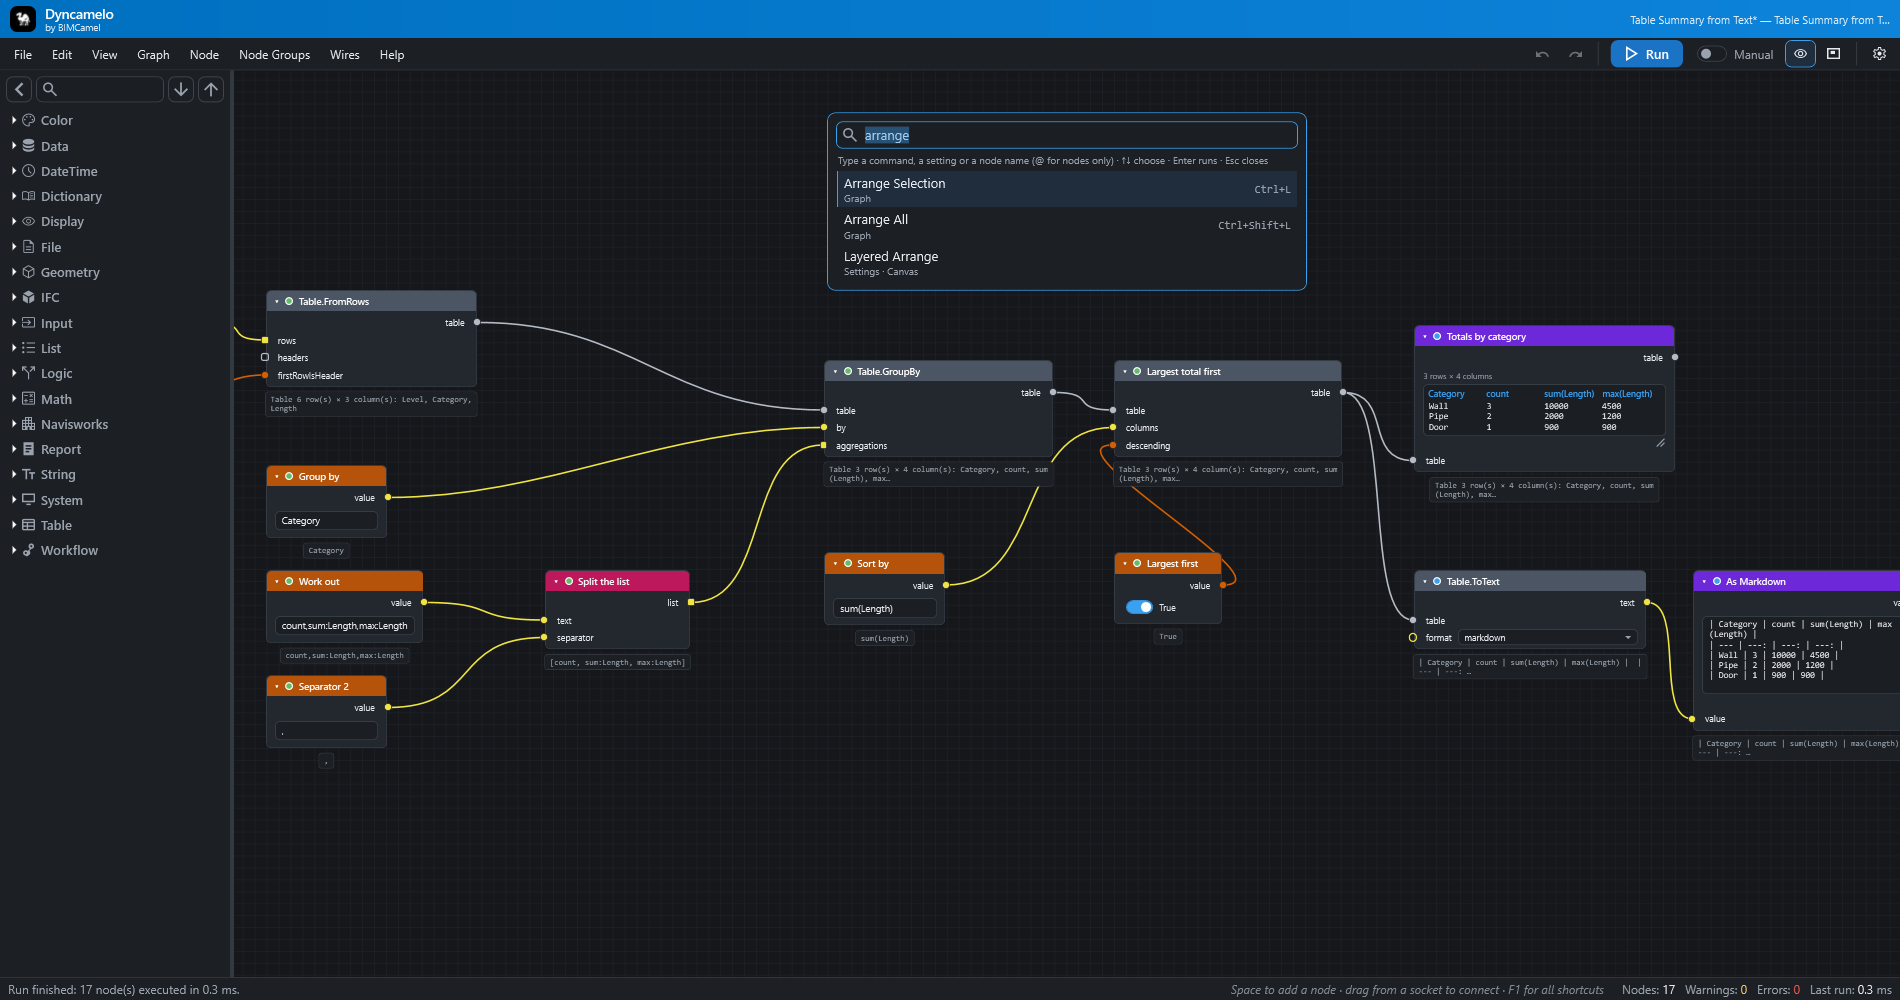
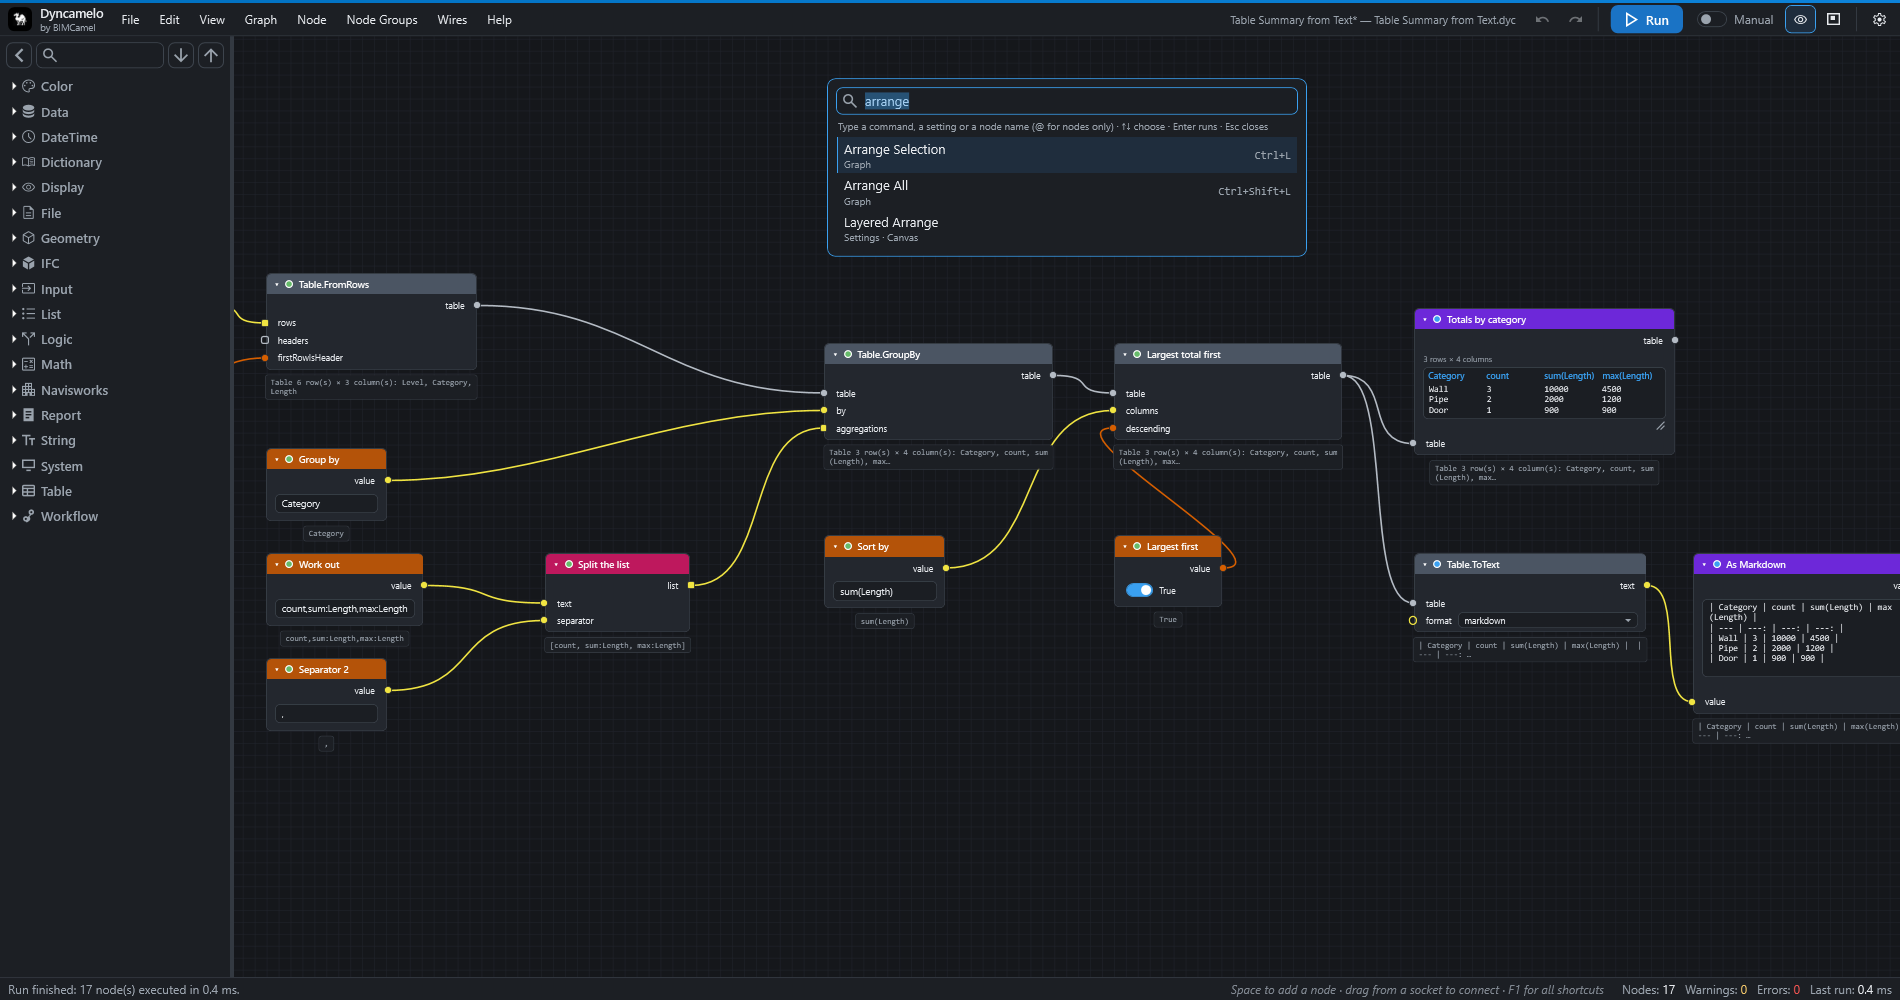
Wiki pictures: the 60 pictures of the articles (dark and light), drawn by the Windows CI job and saved as 256-colour PNGs; the CI wiki step is strict now; screenshots show the merged header
tools/wiki_pictures.py copies the pictures the pages mention from the artifact's wiki folder into docs/images. The README, store and start-screen screenshots are refreshed with the one-row header.

Claude-Session: https://claude.ai/code/session_01XQ9KUEuK4kDs782fquwkYR

diff --git a/tools/wiki_pictures.py b/tools/wiki_pictures.py
@@ -1,0 +1,80 @@
+#!/usr/bin/env python3
+"""Copies the wiki pictures the pages use from a folder of drawn pictures into docs/images.
+
+The Windows CI job draws every wiki scene (tests/Dyncamelo.UI.Tests/Wiki) into the `wiki` folder of the `editor-screenshots`
+artifact: wiki/<id>.png for the dark theme, wiki/<id>-light.png for the light one, and wiki/_report.txt. Download and unzip the
+artifact, then:
+
+    python tools/wiki_pictures.py path/to/editor-screenshots/wiki
+
+Only the pictures a page under docs/wiki-src mentions (as wiki-<name>.png) are copied, each with its -light variant when the
+folder has one. They are saved as 256-colour PNGs (the editor's flat colours lose nothing you can see; a picture is about a third
+of its drawn size), so the repository does not grow by 15 MB each time the pictures are refreshed.
+
+Needs Pillow (tools/wiki/requirements.txt). `--check` only lists what would be copied.
+"""
+import argparse
+import re
+import sys
+from pathlib import Path
+
+ROOT = Path(__file__).resolve().parent.parent
+PAGES = ROOT / "docs" / "wiki-src"
+IMAGES = ROOT / "docs" / "images"
+REFERENCE = re.compile(r"\bwiki-[a-z0-9-]+?\.png\b")
+
+
+def wanted_names():
+    names = set()
+    for page in PAGES.rglob("*.md"):
+        for match in REFERENCE.findall(page.read_text(encoding="utf-8")):
+            if not match.endswith("-light.png"):
+                names.add(match)
+    return sorted(names)
+
+
+def main():
+    parser = argparse.ArgumentParser(description=__doc__, formatter_class=argparse.RawDescriptionHelpFormatter)
+    parser.add_argument("source", help="the folder with the drawn pictures (the artifact's `wiki` folder)")
+    parser.add_argument("--check", action="store_true", help="list what would be copied, change nothing")
+    args = parser.parse_args()
+
+    source = Path(args.source)
+    if not source.is_dir():
+        sys.exit("not a folder: %s" % source)
+
+    if not args.check:
+        try:
+            from PIL import Image
+        except ImportError:
+            sys.exit("Pillow is missing: pip install -r tools/wiki/requirements.txt")
+
+    copied = 0
+    missing = []
+    before = after = 0
+    for name in wanted_names():
+        for variant in (name, name[:-4] + "-light.png"):
+            drawn = source / variant
+            if not drawn.is_file():
+                if variant == name:
+                    missing.append(name)
+                continue
+            target = IMAGES / variant
+            before += drawn.stat().st_size
+            if args.check:
+                print("would copy", variant)
+                continue
+            picture = Image.open(drawn).convert("RGB")
+            picture.quantize(256, method=Image.Quantize.MEDIANCUT, dither=Image.Dither.NONE).save(target, "PNG", optimize=True)
+            after += target.stat().st_size
+            copied += 1
+
+    if not args.check:
+        print("copied %d pictures into docs/images (%.1f MB drawn, %.1f MB saved)" % (copied, before / 1e6, after / 1e6))
+    if missing:
+        print("not drawn: " + ", ".join(missing))
+        sys.exit(1)
+
+
+if __name__ == "__main__":
+    main()

diff --git a/CHANGELOG.md b/CHANGELOG.md
@@ -21,7 +21,7 @@ How this file was made: from those notes, from the git tags (they stop at v0.34.
 * **Run is the main button of the toolbar.** It is filled with the palette's main-action colour, bold and larger, with the play symbol, where it was a quiet button like the others. Automatic / manual running is now the same on/off switch the Boolean nodes use, with the name of the mode beside it (*Auto* when on, *Manual* when off), instead of a toggle button. Every palette has two new colours for the main action (`Dyc.PrimaryBrush`, `Dyc.OnPrimaryBrush`), and a test keeps their contrast readable.
 
 ### Added
-* **A wiki for bimcamel.com**, built with MkDocs and the Material theme from the repository by `python tools/build_wiki.py` (nothing generated is committed; the site goes to `build/wiki-site`): installation, requirements, updating, uninstalling, a first script, concepts, inputs and outputs, the editor, the Script Player, settings, shortcuts, samples, recipes, how-to guides, IFC, BCF, Excel and CSV, troubleshooting, an FAQ, a glossary, privacy and the licence, and a reference page for every one of the library's nodes with its inputs and outputs. It is plain static HTML with a built-in search, a light and a dark theme, and it also works from an unzipped folder. Troubleshooting, recipes and the guide to writing nodes are the repository's own documents, so there is one copy of each. CI builds it in strict mode (a broken link fails the build) and keeps the site as the `dyncamelo-wiki` artifact.
+* **A wiki for bimcamel.com**, built with MkDocs and the Material theme from the repository by `python tools/build_wiki.py` (nothing generated is committed; the site goes to `build/wiki-site`): installation, requirements, updating, uninstalling, a first script, concepts, inputs and outputs, the editor, the Script Player, settings, shortcuts, samples, recipes, how-to guides, IFC, BCF, Excel and CSV, troubleshooting, an FAQ, a glossary, privacy and the licence, and a reference page for every one of the library's nodes with its inputs and outputs. It is plain static HTML with a built-in search, a light and a dark theme, and it also works from an unzipped folder. Troubleshooting, recipes and the guide to writing nodes are the repository's own documents, so there is one copy of each. Its pictures (60 of them, each in a dark and a light version) are drawn from the real editor and Script Player by the Windows CI job (`tests/Dyncamelo.UI.Tests/Wiki`; Navisworks nodes are drawn from stand-ins built from the node catalogue) and imported with `tools/wiki_pictures.py`. CI builds the wiki in strict mode (a broken link or a missing picture fails the build) and keeps the site as the `dyncamelo-wiki` artifact.
 * **More troubleshooting entries**: a search that returns nothing or a magnifier with no names, and a missing start screen.
 
 ### Fixed

diff --git a/tools/wiki/README.md b/tools/wiki/README.md
@@ -23,7 +23,7 @@ The build is **strict**: any warning fails it. That includes a link to a page th
 |---|---|
 | `python tools/build_wiki.py` | Builds the site into `build/wiki-site`. |
 | `python tools/build_wiki.py --serve` | Builds, then serves the wiki on http://127.0.0.1:8000 and rebuilds when you save a page, a picture, a repository document or a setting. Press Ctrl+C to stop. `--dev-addr HOST:PORT` changes the address. |
-| `python tools/build_wiki.py --draft` | A picture or a graph file that is not in the repository yet is a warning, not an error. The page shows "picture to come" or "(file to come)" in its place. CI uses this until all pictures are committed. |
+| `python tools/build_wiki.py --draft` | A picture or a graph file that is not in the repository yet is a warning, not an error. The page shows "picture to come" or "(file to come)" in its place. CI builds without it, so a missing picture fails the job. |
 | `--allow-missing-images`, `--allow-missing-files` | The two halves of `--draft`. |
 | `python tools/build_wiki.py --stage-only` | Only writes the staging folder (`build/wiki-docs`) and the MkDocs file for it. |
 | `--out DIR`, `--stage DIR` | Choose the folders for the site and for the staging pages. The build refuses a folder that is not empty and does not look like an earlier build. |
@@ -72,6 +72,8 @@ order: 20                                 # optional; the menu is sorted by this
 ## Add a picture
 
 Pictures are made by the tests in `tests/Dyncamelo.UI.Tests/Wiki` (the agreed list is in `tools/wiki/image-manifest.md`) and committed to `docs/images/`.
+
+To refresh them all: push, let the Windows CI job finish, download its `editor-screenshots` artifact (it holds a `wiki` folder with every drawn picture and `_report.txt`, which names any scene that could not be drawn), read the pictures, then run `python tools/wiki_pictures.py path/to/wiki`. That copies the pictures the pages mention into `docs/images/` as 256-colour PNGs (about a third of the drawn size). Commit the result.
 
 * `docs/images/<id>.png` is the picture for the **dark** theme. `docs/images/<id>-light.png` is the same picture for the **light** theme. If only the first exists, it is shown in both themes.
 * In a page, write the picture **once**, with its caption as the text in the brackets: `![The editor after a run](../images/wiki-editor-overview.png)`. From a page in `docs/wiki-src/`, write `images/<id>.png`; from a how-to, `../images/<id>.png`. The build looks the file up by name in `docs/images/`, so the folder part does not matter.

diff --git a/THIRD-PARTY-NOTICES.md b/THIRD-PARTY-NOTICES.md
@@ -90,6 +90,7 @@ them, all MIT-licensed: the Material for MkDocs theme (styles, scripts, template
 GLightbox picture viewer that mkdocs-glightbox ships and the iframe-worker shim (`tools/wiki/overrides/assets/javascripts/`).
 The icons inside the pages are from Material Design Icons (Pictogrammers Free License) and Simple Icons (CC0 1.0).
 MkDocs itself (BSD 2-Clause, Copyright 2014-present Tom Christie) only runs the build and is not in the site.
+Pillow (the Python imaging library, MIT-CMU licence) is used by `tools/wiki_pictures.py` to save the wiki pictures as 256-colour PNGs; it is not in the site either.
 https://squidfunk.github.io/mkdocs-material/ · https://github.com/facelessuser/pymdown-extensions · https://github.com/blueswen/mkdocs-glightbox · https://github.com/mkdocs/mkdocs
 
 > MIT License
